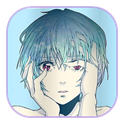
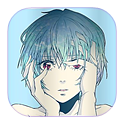
fix: sharp installer images at every display scale (beta 1.2.1)
The side banner and the small logo were drawn from the 256 px app logo,
clipped without antialiasing and with grayscale text, and only three of
the seven DPI sizes existed. installer-art.ps1 now starts from the
original 360 px artwork, paints the logo 1:1 through a texture brush
(antialiased rounded corners, light unsharp mask after the resample),
draws ClearType text and produces every size Inno Setup 7 documents
for 100%-250%, all listed in the setup script. Verified on the 100%
welcome page: the wizard shows side-202.png pixel for pixel.

Changed region(s): [[0.0484, 0.0484, 0.9677, 0.9677], [0.6532, 0.2661, 0.7016, 0.2903], [0.5806, 0.3145, 0.6048, 0.3387]]

diff --git a/src/locales/news/ru.ts b/src/locales/news/ru.ts
@@ -2,6 +2,10 @@ import type { NewsTranslations } from '../../news-changelog';
 
 // Russian titles and descriptions of the News entries, by entry id.
 const news: NewsTranslations = {
+  'installer-sharper-images': [
+    'Более чёткие изображения в установщике',
+    'Логотип и название сбоку окна установки теперь выглядят чётко: они созданы из исходного рисунка и подготовлены точно под каждый масштаб экрана, поэтому Windows больше не приходится их растягивать.',
+  ],
   'new-installer': [
     'Новый установщик в стиле приложения',
     'Установщик переделан: одно окно от начала до конца, с тёмной темой и логотипом Jesse’s Archive, вместо процедуры через Windows Installer. Теперь у него есть и собственное удаление, которое убирает программу, не затрагивая хранилище и настройки. При обновлении с предыдущей версии делать ничего не нужно: новый установщик заменяет старый в той же папке.',

diff --git a/src/locales/news/ja.ts b/src/locales/news/ja.ts
@@ -2,6 +2,10 @@ import type { NewsTranslations } from '../../news-changelog';
 
 // Japanese titles and descriptions of the News entries, by entry id.
 const news: NewsTranslations = {
+  'installer-sharper-images': [
+    'インストーラーの画像をより鮮明に',
+    'セットアップ画面の横に表示されるロゴと名前がくっきり表示されるようになりました。元のイラストから作成し、画面の拡大率ごとにぴったりのサイズで用意しているため、Windows が引き伸ばす必要がなくなりました。',
+  ],
   'new-installer': [
     'アプリと同じスタイルの新しいインストーラー',
     'セットアップを作り直しました。Windows Installer を経由していた手順に代わり、Jesse’s Archive のダークテーマとロゴを使った 1 つのウィンドウで最初から最後まで進みます。独自のアンインストールも備え、保管庫と設定には触れずにプログラムだけを削除します。以前のバージョンから更新する場合は何もする必要はありません。新しいセットアップが同じフォルダーで古いものを置き換えます。',

diff --git a/src/locales/news/fr.ts b/src/locales/news/fr.ts
@@ -2,6 +2,10 @@ import type { NewsTranslations } from '../../news-changelog';
 
 // French titles and descriptions of the News entries, by entry id.
 const news: NewsTranslations = {
+  'installer-sharper-images': [
+    'Images de l’installateur plus nettes',
+    'Le logo et le nom sur le côté de l’installateur sont désormais nets : ils proviennent de l’illustration d’origine et sont préparés à la taille exacte pour chaque mise à l’échelle de l’écran, Windows n’a donc plus à les étirer.',
+  ],
   'new-installer': [
     'Nouveau programme d’installation au style de l’app',
     'Le programme d’installation a été refait : une seule fenêtre du début à la fin, avec le thème sombre et le logo de Jesse’s Archive, à la place de la procédure qui passait par Windows Installer. Il a aussi désormais sa propre désinstallation, qui supprime le programme sans toucher au coffre ni aux paramètres. En mettant à jour depuis la version précédente, vous n’avez rien à faire : le nouveau programme remplace l’ancien dans le même dossier.',

diff --git a/src/locales/news/ko.ts b/src/locales/news/ko.ts
@@ -2,6 +2,10 @@ import type { NewsTranslations } from '../../news-changelog';
 
 // Korean titles and descriptions of the News entries, by entry id.
 const news: NewsTranslations = {
+  'installer-sharper-images': [
+    '더 선명해진 설치 프로그램 이미지',
+    '설치 화면 옆의 로고와 이름이 이제 선명하게 보입니다. 원본 그림에서 만들고 화면 배율마다 정확한 크기로 준비하므로 Windows가 더 이상 이미지를 늘리지 않습니다.',
+  ],
   'new-installer': [
     '앱 스타일의 새 설치 프로그램',
     '설치 프로그램을 새로 만들었습니다. Windows Installer를 거치던 절차 대신 Jesse’s Archive의 어두운 테마와 로고를 사용한 하나의 창으로 처음부터 끝까지 진행됩니다. 이제 자체 제거 기능도 있어 보관함과 설정은 건드리지 않고 프로그램만 제거합니다. 이전 버전에서 업데이트할 때는 아무것도 할 필요가 없습니다. 새 설치 프로그램이 같은 폴더에서 이전 버전을 대체합니다.',

diff --git a/src/locales/news/es.ts b/src/locales/news/es.ts
@@ -2,6 +2,10 @@ import type { NewsTranslations } from '../../news-changelog';
 
 // Spanish titles and descriptions of the News entries, by entry id.
 const news: NewsTranslations = {
+  'installer-sharper-images': [
+    'Imágenes del instalador más nítidas',
+    'El logotipo y el nombre en el lateral del instalador ahora se ven nítidos: proceden de la ilustración original y se preparan con el tamaño exacto para cada escala de pantalla, así que Windows ya no tiene que estirarlos.',
+  ],
   'new-installer': [
     'Nuevo instalador con el estilo de la app',
     'El instalador se ha rehecho: una sola ventana de principio a fin, con el tema oscuro y el logotipo de Jesse’s Archive, en lugar del procedimiento que pasaba por Windows Installer. Ahora también tiene su propia desinstalación, que quita el programa sin tocar la bóveda ni la configuración. Al actualizar desde la versión anterior no tienes que hacer nada: el nuevo instalador sustituye al anterior en la misma carpeta.',

diff --git a/src/locales/news/pt.ts b/src/locales/news/pt.ts
@@ -2,6 +2,10 @@ import type { NewsTranslations } from '../../news-changelog';
 
 // Portuguese (Brazil) titles and descriptions of the News entries, by entry id.
 const news: NewsTranslations = {
+  'installer-sharper-images': [
+    'Imagens do instalador mais nítidas',
+    'O logotipo e o nome na lateral do instalador agora aparecem nítidos: vêm da ilustração original e são preparados no tamanho exato para cada escala de ecrã, por isso o Windows já não precisa de os esticar.',
+  ],
   'new-installer': [
     'Novo instalador no estilo do app',
     'O instalador foi refeito: uma única janela do início ao fim, com o tema escuro e o logotipo do Jesse’s Archive, no lugar do procedimento que passava pelo Windows Installer. Agora ele também tem sua própria desinstalação, que remove o programa sem mexer no cofre nem nas configurações. Ao atualizar a partir da versão anterior, você não precisa fazer nada: o novo instalador substitui o antigo na mesma pasta.',

diff --git a/src/locales/news/de.ts b/src/locales/news/de.ts
@@ -2,6 +2,10 @@ import type { NewsTranslations } from '../../news-changelog';
 
 // German titles and descriptions of the News entries, by entry id.
 const news: NewsTranslations = {
+  'installer-sharper-images': [
+    'Schärfere Bilder im Installationsprogramm',
+    'Logo und Name an der Seite des Setups sind jetzt scharf: Sie stammen aus der Originalgrafik und werden für jede Anzeigeskalierung in genau der passenden Größe erstellt, sodass Windows sie nicht mehr strecken muss.',
+  ],
   'new-installer': [
     'Neues Installationsprogramm im Stil der App',
     'Das Setup wurde neu gestaltet: ein einziges Fenster vom Anfang bis zum Ende, mit dem dunklen Design und dem Logo von Jesse’s Archive, statt des Ablaufs über Windows Installer. Es hat jetzt auch eine eigene Deinstallation, die das Programm entfernt, ohne Tresor und Einstellungen anzutasten. Beim Update von der vorherigen Version musst du nichts tun: Das neue Setup ersetzt das alte im selben Ordner.',

diff --git a/src/locales/news/en.ts b/src/locales/news/en.ts
@@ -2,6 +2,10 @@ import type { NewsTranslations } from '../../news-changelog';
 
 // English titles and descriptions of the News entries, by entry id.
 const news: NewsTranslations = {
+  'installer-sharper-images': [
+    'Sharper installer images',
+    'The logo and the name on the side of the setup are now sharp: they come from the original artwork and are prepared at the exact size for every display scale, so Windows no longer has to stretch them.',
+  ],
   'new-installer': [
     'New installer in the app’s style',
     'The setup has been redone: a single window from start to finish, with the dark theme and logo of Jesse’s Archive, instead of the procedure that went through Windows Installer. It now also has its own uninstaller, which removes the program without touching the vault and the settings. Updating from the previous version needs nothing from you: the new setup replaces the old one in the same folder.',

diff --git a/src/locales/news/zh.ts b/src/locales/news/zh.ts
@@ -2,6 +2,10 @@ import type { NewsTranslations } from '../../news-changelog';
 
 // Simplified Chinese titles and descriptions of the News entries, by entry id.
 const news: NewsTranslations = {
+  'installer-sharper-images': [
+    '更清晰的安装程序图片',
+    '安装程序侧边的标志和名称现在更加清晰：它们来自原始插画，并为每种显示缩放比例准备了精确尺寸，Windows 不再需要拉伸它们。',
+  ],
   'new-installer': [
     '与应用风格一致的新安装程序',
     '安装程序已重新制作：从头到尾只有一个窗口，采用 Jesse’s Archive 的深色主题和图标，取代了以前经由 Windows Installer 的流程。现在它还有自己的卸载程序，卸载时不会触及保险库和设置。从旧版本更新时无需任何操作：新的安装程序会在同一文件夹中替换旧版本。',

diff --git a/src/news-changelog.ts b/src/news-changelog.ts
@@ -16,6 +16,15 @@ export type NewsTranslations = Record<string, [title: string, description: strin
 
 export const NEWS_ENTRIES: NewsEntry[] = [
   {
+    id: 'installer-sharper-images',
+    addedAt: '2026-11-19T18:00:00+01:00',
+    version: 'Beta 1.2.1',
+    title: 'Immagini dell’installer più nitide',
+    description:
+      'Il logo e il nome sul lato del setup ora sono nitidi: vengono dall’illustrazione originale e sono preparati alla misura esatta per ogni scala dello schermo, così Windows non deve più stirarli.',
+    icon: 'palette',
+  },
+  {
     id: 'new-installer',
     addedAt: '2026-11-19T17:00:00+01:00',
     version: 'Beta 1.2.0',

diff --git a/src/NewsPanel.tsx b/src/NewsPanel.tsx
@@ -74,7 +74,7 @@ function EntryTimestamp({
 
 export default function NewsPanel({ onClose }: { onClose: () => void }) {
   const [tab, setTab] = useState<Tab>('updates');
-  const [version, setVersion] = useState('1.2.0');
+  const [version, setVersion] = useState('1.2.1');
   const [query, setQuery] = useState('');
   const closeRef = useRef<HTMLButtonElement>(null);
   useEffect(() => {

diff --git a/docs/DEVELOPMENT.md b/docs/DEVELOPMENT.md
@@ -170,7 +170,7 @@ Flusso reale:
 3. Lo script esterno verifica che `jesse_archive.exe` e `jesse_browser_host.exe` siano appena compilati, prepara `installer/payload/MicrosoftEdgeWebView2RuntimeInstallerX64.exe` (scaricato da `go.microsoft.com/fwlink/?linkid=2124701` se manca; firma Authenticode Microsoft e dimensione verificate) e compila [JesseArchive-Setup.iss](../installer/JesseArchive-Setup.iss).
 4. Il distributable contiene `JesseArchive-Setup.exe`, ZIP Chromium/Firefox e guida.
 
-Dalla Beta 1.2.0 Inno è l'unico installer, con disinstallazione propria (voce in «App installate», `AppId` fisso nello script: non cambiarlo). Installa gli stessi file dell'MSI precedente: `jesse_archive.exe`, `jesse-browser-host.exe` (dal binario `jesse_browser_host.exe`), `browser-extension/{chromium,firefox}` e la guida, più i collegamenti nel menu Start e, facoltativo, sul desktop (AppUserModelID `app.jesse.archive`). In `PrepareToInstall`, prima di copiare i file: attende la chiusura dell'app (in silent fino a 30 s, l'aggiornamento automatico la chiude subito dopo aver avviato il setup), chiude l'helper browser, installa WebView2 se manca e rimuove con `msiexec /x /qn` l'eventuale installazione MSI della 1.1.21 o precedenti, riusandone la cartella. La cartella predefinita è, in ordine: `/INSTALLDIR=` (aggiornamento automatico), installazione Inno precedente, cartella dell'MSI, `Program Files`. La disinstallazione toglie anche il valore `Run` dell'avvio automatico e le registrazioni Native Messaging dell'utente; vault, impostazioni e file in AppData restano. Stile: `WizardStyle=modern dark` con le immagini di `installer/art/`, generate da [scripts/installer-art.ps1](../scripts/installer-art.ps1) con i colori del tema «Notte». La pagina finale offre due spunte post-installazione, eseguite come utente originale e saltate in modalità silent: "Configura le estensioni dei browser" (`--browser-setup`) e, subito sotto, "Avvia Jesse's Archive". Se sono selezionate entrambe, `NextButtonClick(wpFinished)` toglie la seconda: la guida avvia già l'app e il suo pulsante "Ho installato l'estensione" apre la finestra principale, evitando due avvii simultanei che competerebbero sul controllo di istanza singola. L'ordine delle due voci `[Run]` è significativo (indice 0 e 1 di `RunList`). Nota: `ISCC /O-` (solo verifica di sintassi) cancella comunque il setup esistente nella cartella di output. L'elevazione con credenziali di un altro account richiede verifica del contesto HKCU e della guida. Nessuna configurazione di firma del setup o pubblicazione store è dimostrata.
+Dalla Beta 1.2.0 Inno è l'unico installer, con disinstallazione propria (voce in «App installate», `AppId` fisso nello script: non cambiarlo). Installa gli stessi file dell'MSI precedente: `jesse_archive.exe`, `jesse-browser-host.exe` (dal binario `jesse_browser_host.exe`), `browser-extension/{chromium,firefox}` e la guida, più i collegamenti nel menu Start e, facoltativo, sul desktop (AppUserModelID `app.jesse.archive`). In `PrepareToInstall`, prima di copiare i file: attende la chiusura dell'app (in silent fino a 30 s, l'aggiornamento automatico la chiude subito dopo aver avviato il setup), chiude l'helper browser, installa WebView2 se manca e rimuove con `msiexec /x /qn` l'eventuale installazione MSI della 1.1.21 o precedenti, riusandone la cartella. La cartella predefinita è, in ordine: `/INSTALLDIR=` (aggiornamento automatico), installazione Inno precedente, cartella dell'MSI, `Program Files`. La disinstallazione toglie anche il valore `Run` dell'avvio automatico e le registrazioni Native Messaging dell'utente; vault, impostazioni e file in AppData restano. Stile: `WizardStyle=modern dark` con le immagini di `installer/art/`, generate da [scripts/installer-art.ps1](../scripts/installer-art.ps1) con i colori del tema «Notte» (dalla Beta 1.2.1 una misura esatta per ogni scala DPI, logo dall'originale in `installer/art-source/`, angoli con antialiasing e testo ClearType; rieseguirlo dopo aver cambiato logo o palette). La pagina finale offre due spunte post-installazione, eseguite come utente originale e saltate in modalità silent: "Configura le estensioni dei browser" (`--browser-setup`) e, subito sotto, "Avvia Jesse's Archive". Se sono selezionate entrambe, `NextButtonClick(wpFinished)` toglie la seconda: la guida avvia già l'app e il suo pulsante "Ho installato l'estensione" apre la finestra principale, evitando due avvii simultanei che competerebbero sul controllo di istanza singola. L'ordine delle due voci `[Run]` è significativo (indice 0 e 1 di `RunList`). Nota: `ISCC /O-` (solo verifica di sintassi) cancella comunque il setup esistente nella cartella di output. L'elevazione con credenziali di un altro account richiede verifica del contesto HKCU e della guida. Nessuna configurazione di firma del setup o pubblicazione store è dimostrata.
 
 La soglia di 100 MB sull'installer WebView2 è un'euristica, non prova che ogni dipendenza sia disponibile offline. La build Tauri diretta e `Build-Windows.ps1` storico non preparano da soli tutto il pacchetto browser. Il formato NSIS è previsto nello script interno, ma le note storiche riportano un problema NSISCOMCALL; il percorso corrente è il solo Inno (formato `app`); i formati `msi`/`exe` dello script interno restano per diagnosi. Riferimenti operativi preesistenti: [DISTRIBUZIONE-WINDOWS](../DISTRIBUZIONE-WINDOWS.md), [SETUP-EXE-OFFLINE](../SETUP-EXE-OFFLINE.md), da confrontare sempre con gli script attuali.
 
